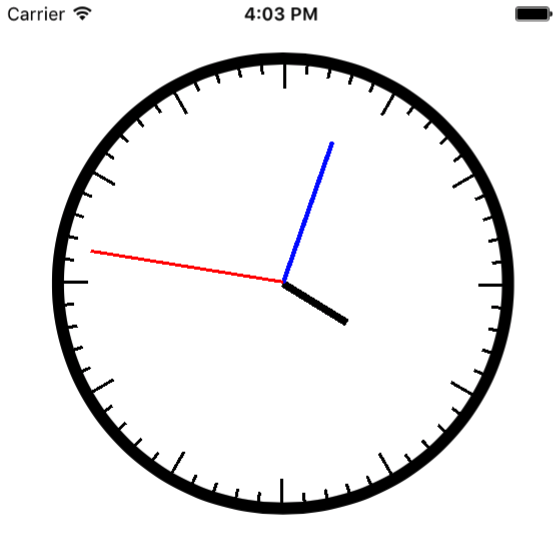
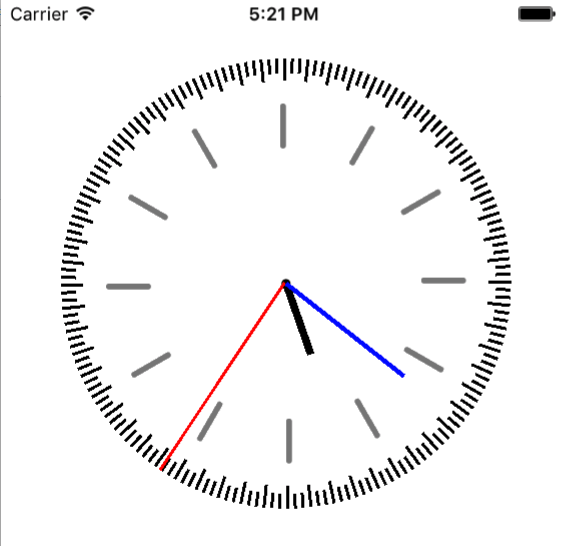
Update clock UI

diff --git a/coreanimation.clock/ViewController.m b/coreanimation.clock/ViewController.m
@@ -2,9 +2,6 @@
 //  ViewController.m
 //  coreanimation.clock
 //
-//  Created by Lisa Lau on 11/04/2017.
-//  Copyright © 2017 Lisa Lau. All rights reserved.
-//
 
 #import "ViewController.h"
 
@@ -19,22 +16,26 @@
 
 @implementation ViewController
 
--(CALayer*) createSecondsForClockFrame:(CGFloat)size {
+-(CALayer*) createTicksForClockFrame:(CGFloat)size {
     
     CAShapeLayer* clockFrame = [CAShapeLayer layer];
-    [clockFrame setPath:[[UIBezierPath bezierPathWithOvalInRect:CGRectMake(0,0, size, size)] CGPath]];
-    [clockFrame setStrokeColor:[[UIColor blackColor] CGColor]];
-    clockFrame.lineWidth = 8;
-    [clockFrame setFillColor:[[UIColor clearColor] CGColor]];
+//    [clockFrame setPath:[[UIBezierPath bezierPathWithOvalInRect:CGRectMake(0,0, size, size)] CGPath]];
+//    [clockFrame setStrokeColor:[[UIColor blackColor] CGColor]];
+//    clockFrame.lineWidth = 8;
+//    [clockFrame setFillColor:[[UIColor clearColor] CGColor]];
     
-    for (int i = 0; i < 60; i ++) {
+    CAShapeLayer* dot = [CAShapeLayer layer];
+    dot.position = CGPointMake(size/2 - 3, size/2 - 3);
+    [dot setPath:[[UIBezierPath bezierPathWithOvalInRect:CGRectMake(0,0, 6, 6)] CGPath]];
+    [dot setFillColor:[[UIColor blackColor] CGColor]];
+    [clockFrame addSublayer:dot];
+    
+    //Add the second ticks
+    for (int i = 0; i < 180; i ++) {
         
         double secondsLength = 10;
         double secondsWidth = 2;
-        
-        if(i%5 == 0) {
-            secondsLength = 20;
-        }
+        double degreeForOneThirdSecond = 2.0; //there is a line for every 2 degrees
         
         CALayer* innerClockFrame = [CALayer layer];
         innerClockFrame.backgroundColor = [[UIColor clearColor] CGColor];
@@ -42,17 +43,37 @@
         innerClockFrame.position = CGPointMake(size/2, size/2);
         innerClockFrame.bounds = CGRectMake(0, 0, secondsWidth, size/2);
         
-        CALayer* innerClockFrameSeconds = [CALayer layer];
-        innerClockFrameSeconds.backgroundColor = [[UIColor blackColor] CGColor];
-        innerClockFrameSeconds.anchorPoint = CGPointMake(0, 0);
-        innerClockFrameSeconds.position = CGPointMake(0 ,size/2 - secondsLength);
-        innerClockFrameSeconds.bounds = CGRectMake(0, 0, secondsWidth, secondsLength);
+        if( i % 3 == 0) {
+            secondsLength = 1.5 * secondsLength;
+        }
         
-        [innerClockFrame addSublayer:innerClockFrameSeconds];
-        innerClockFrame.transform = CATransform3DMakeRotation(-i * (6.0/180 *M_PI), 0, 0, 1);
+        if( i % 15 == 0) {
+            
+            CALayer* innerClockFrameHourIndicator = [CALayer layer];
+            innerClockFrameHourIndicator.backgroundColor = [[UIColor grayColor] CGColor];
+            innerClockFrameHourIndicator.anchorPoint = CGPointMake(0, 0);
+            innerClockFrameHourIndicator.position = CGPointMake(0 ,0.6 * size/2);
+            innerClockFrameHourIndicator.cornerRadius = 2;
+            innerClockFrameHourIndicator.bounds = CGRectMake(0, 0, 2 * secondsWidth, 0.2 * size/2);
+            
+            [innerClockFrame addSublayer:innerClockFrameHourIndicator];
+        }
+        
+        CALayer* innerClockFrameTicks = [CALayer layer];
+        innerClockFrameTicks.backgroundColor = [[UIColor blackColor] CGColor];
+        innerClockFrameTicks.anchorPoint = CGPointMake(0, 0);
+        innerClockFrameTicks.position = CGPointMake(0 ,size/2 - secondsLength);
+        innerClockFrameTicks.bounds = CGRectMake(0, 0, secondsWidth, secondsLength);
+        
+        [innerClockFrame addSublayer:innerClockFrameTicks];
+        innerClockFrame.transform = CATransform3DMakeRotation(i * ([self convertDegreesToRadians:degreeForOneThirdSecond]), 0, 0, 1);
         [clockFrame addSublayer:innerClockFrame];
     }
     return clockFrame;
+}
+
+- (CGFloat) convertDegreesToRadians:(CGFloat) degrees {
+    return degrees * M_PI/180.0;
 }
 
 - (void)viewDidLoad {
@@ -61,18 +82,18 @@
     CALayer *layer = [CALayer layer];
     UIView* view2 = [[UIView alloc] initWithFrame:CGRectMake(20, 20, 300.0f, 300.0f)];
     layer.frame = [view2 frame];
-    layer.sublayerTransform = CATransform3DMakeScale(1, -1, 1);
+//    layer.sublayerTransform = CATransform3DMakeScale(1, -1, 1);
     [[view2 layer] addSublayer:layer];
     [self.view addSubview:view2];
     
     // Draw clock frame
-    [layer addSublayer:[self createSecondsForClockFrame:view2.bounds.size.height]];
+    [layer addSublayer:[self createTicksForClockFrame:view2.bounds.size.height]];
     
     
     //Draw the hours layer
     hourLayer = [CALayer layer];
     hourLayer.backgroundColor = [[UIColor blackColor] CGColor];
-    hourLayer.anchorPoint = CGPointMake(0.5, 0);
+    hourLayer.anchorPoint = CGPointMake(0.5, 1);
     hourLayer.position = CGPointMake(view2.bounds.size.width/2, view2.bounds.size.height/2);
     hourLayer.bounds = CGRectMake(0, 0, 5, view2.bounds.size.width/2 -100);
     [layer addSublayer:hourLayer];
@@ -80,7 +101,7 @@
     //Draw the minute layer
     minuteLayer = [CALayer layer];
     minuteLayer.backgroundColor = [[UIColor blueColor] CGColor];
-    minuteLayer.anchorPoint = CGPointMake(0.5, 0);
+    minuteLayer.anchorPoint = CGPointMake(0.5, 1);
     minuteLayer.position = CGPointMake(view2.bounds.size.width/2, view2.bounds.size.height/2);
     minuteLayer.bounds = CGRectMake(0, 0, 3, view2.bounds.size.width/2 -50);
     [layer addSublayer:minuteLayer];
@@ -88,9 +109,9 @@
     //Draw the seconds layer
     secondsLayer = [CALayer layer];
     secondsLayer.backgroundColor = [[UIColor redColor] CGColor];
-    secondsLayer.anchorPoint = CGPointMake(0, 0);
+    secondsLayer.anchorPoint = CGPointMake(0, 1);
     secondsLayer.position = CGPointMake(view2.bounds.size.width/2, view2.bounds.size.height/2);
-    secondsLayer.bounds = CGRectMake(0, 0, 2, view2.bounds.size.width/2 -20);
+    secondsLayer.bounds = CGRectMake(0, 0, 2, view2.bounds.size.width/2);
     [layer addSublayer:secondsLayer];
     
     //Place the hands at correct location
@@ -105,18 +126,13 @@
     CGFloat minuteAngle = minutes * (360/60);
     CGFloat secondsAngle = seconds * 360/60;
     
-    
-    hourLayer.transform = CATransform3DMakeRotation(hourAngle/180 *M_PI, 0, 0, 1);
-    minuteLayer.transform = CATransform3DMakeRotation(minuteAngle /180 *M_PI, 0, 0, 1);
-    secondsLayer.transform = CATransform3DMakeRotation(secondsAngle /180 *M_PI, 0, 0, 1);
-    
     CABasicAnimation *secondsAnimation = [CABasicAnimation animationWithKeyPath:@"transform.rotation.z"];
     secondsAnimation.repeatCount = HUGE_VALF;
     secondsAnimation.duration = 60;
     secondsAnimation.removedOnCompletion = NO;
     secondsAnimation.timingFunction = [CAMediaTimingFunction functionWithName:kCAMediaTimingFunctionLinear];
-    secondsAnimation.fromValue = @(secondsAngle * M_PI / 180);
-    secondsAnimation.byValue = @(-2 * M_PI);
+    secondsAnimation.fromValue = @([self convertDegreesToRadians:secondsAngle]);
+    secondsAnimation.byValue = @(2 * M_PI);
     [secondsLayer addAnimation:secondsAnimation forKey:@"SecondAnimationKey"];
     
     CABasicAnimation *minutesAnimation = [CABasicAnimation animationWithKeyPath:@"transform.rotation.z"];
@@ -124,8 +140,8 @@
     minutesAnimation.duration = 60*60;
     minutesAnimation.removedOnCompletion = NO;
     minutesAnimation.timingFunction = [CAMediaTimingFunction functionWithName:kCAMediaTimingFunctionLinear];
-    minutesAnimation.fromValue = @(-minuteAngle * M_PI / 180);
-    minutesAnimation.byValue = @(-2 * M_PI);
+    minutesAnimation.fromValue = @([self convertDegreesToRadians:minuteAngle]);
+    minutesAnimation.byValue = @(2 * M_PI);
     [minuteLayer addAnimation:minutesAnimation forKey:@"MinutesAnimationKey"];
     
     CABasicAnimation *hoursAnimation = [CABasicAnimation animationWithKeyPath:@"transform.rotation.z"];
@@ -133,8 +149,8 @@
     hoursAnimation.duration = 60*60*12;
     hoursAnimation.removedOnCompletion = NO;
     hoursAnimation.timingFunction = [CAMediaTimingFunction functionWithName:kCAMediaTimingFunctionLinear];
-    hoursAnimation.fromValue = @(-hourAngle * M_PI / 180);
-    hoursAnimation.byValue = @(-2 * M_PI);
+    hoursAnimation.fromValue = @([self convertDegreesToRadians:hourAngle]);
+    hoursAnimation.byValue = @(2 * M_PI);
     [hourLayer addAnimation:hoursAnimation forKey:@"HoursAnimationKey"];
 }
 

diff --git a/coreanimation.clock/AppDelegate.m b/coreanimation.clock/AppDelegate.m
@@ -2,8 +2,6 @@
 //  AppDelegate.m
 //  coreanimation.clock
 //
-//  Created by Lisa Lau on 11/04/2017.
-//  Copyright © 2017 Lisa Lau. All rights reserved.
 //
 #import "AppDelegate.h"
 @interface AppDelegate ()

diff --git a/coreanimation.clock/ViewController.h b/coreanimation.clock/ViewController.h
@@ -2,8 +2,6 @@
 //  ViewController.h
 //  coreanimation.clock
 //
-//  Created by Lisa Lau on 11/04/2017.
-//  Copyright © 2017 Lisa Lau. All rights reserved.
 //
 
 #import <UIKit/UIKit.h>

diff --git a/coreanimation.clock/AppDelegate.h b/coreanimation.clock/AppDelegate.h
@@ -2,8 +2,6 @@
 //  AppDelegate.h
 //  coreanimation.clock
 //
-//  Created by Lisa Lau on 11/04/2017.
-//  Copyright © 2017 Lisa Lau. All rights reserved.
 //
 
 #import <UIKit/UIKit.h>

diff --git a/coreanimation.clock/main.m b/coreanimation.clock/main.m
@@ -2,8 +2,6 @@
 //  main.m
 //  coreanimation.clock
 //
-//  Created by Lisa Lau on 11/04/2017.
-//  Copyright © 2017 Lisa Lau. All rights reserved.
 //
 
 #import <UIKit/UIKit.h>
